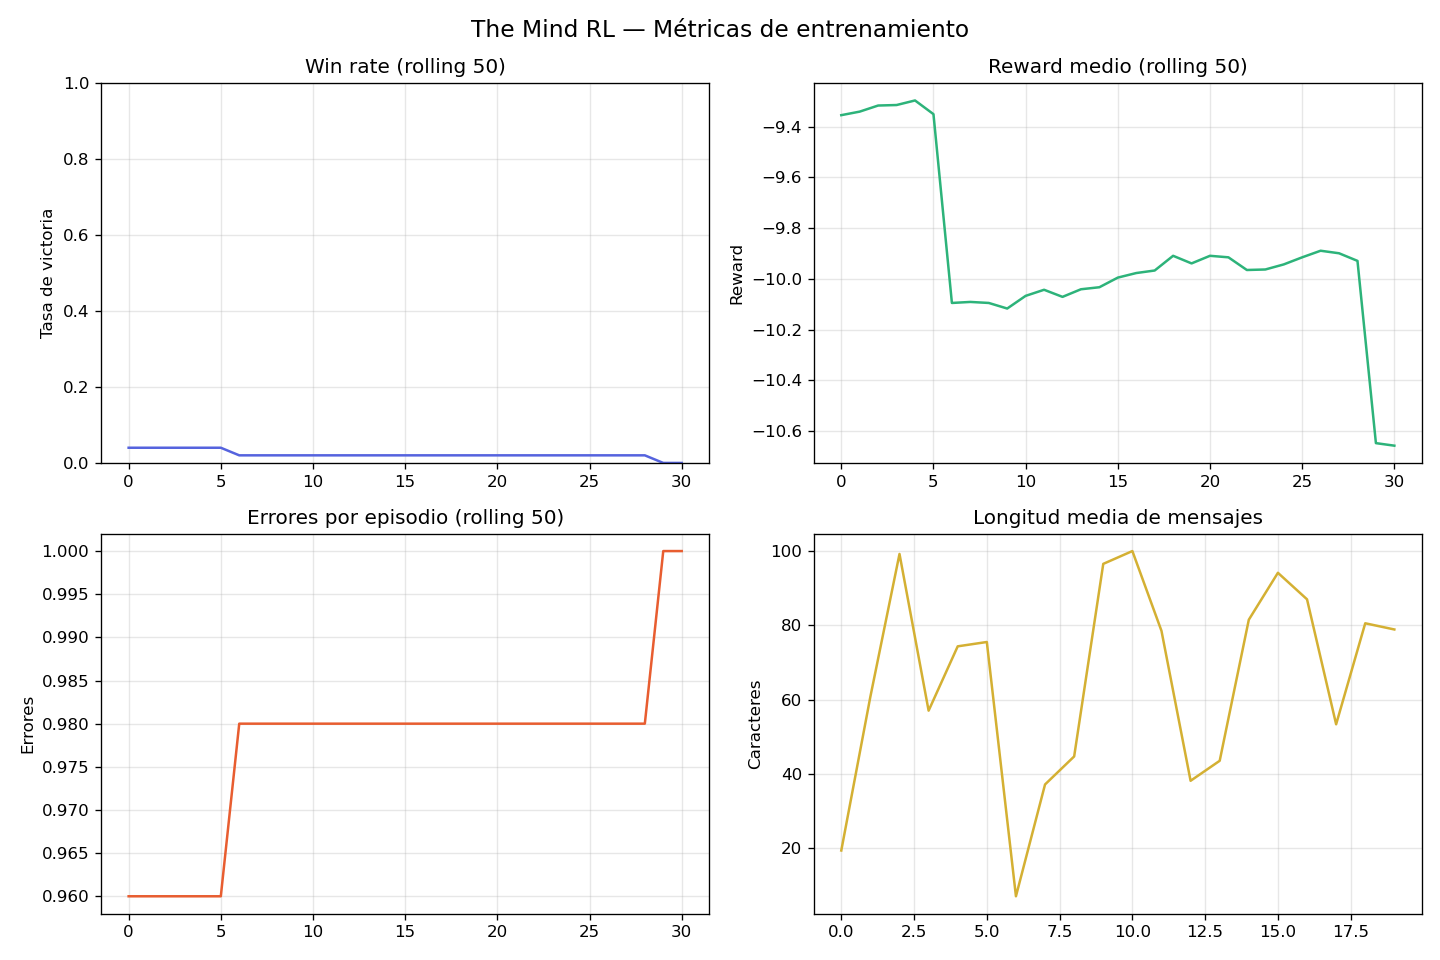
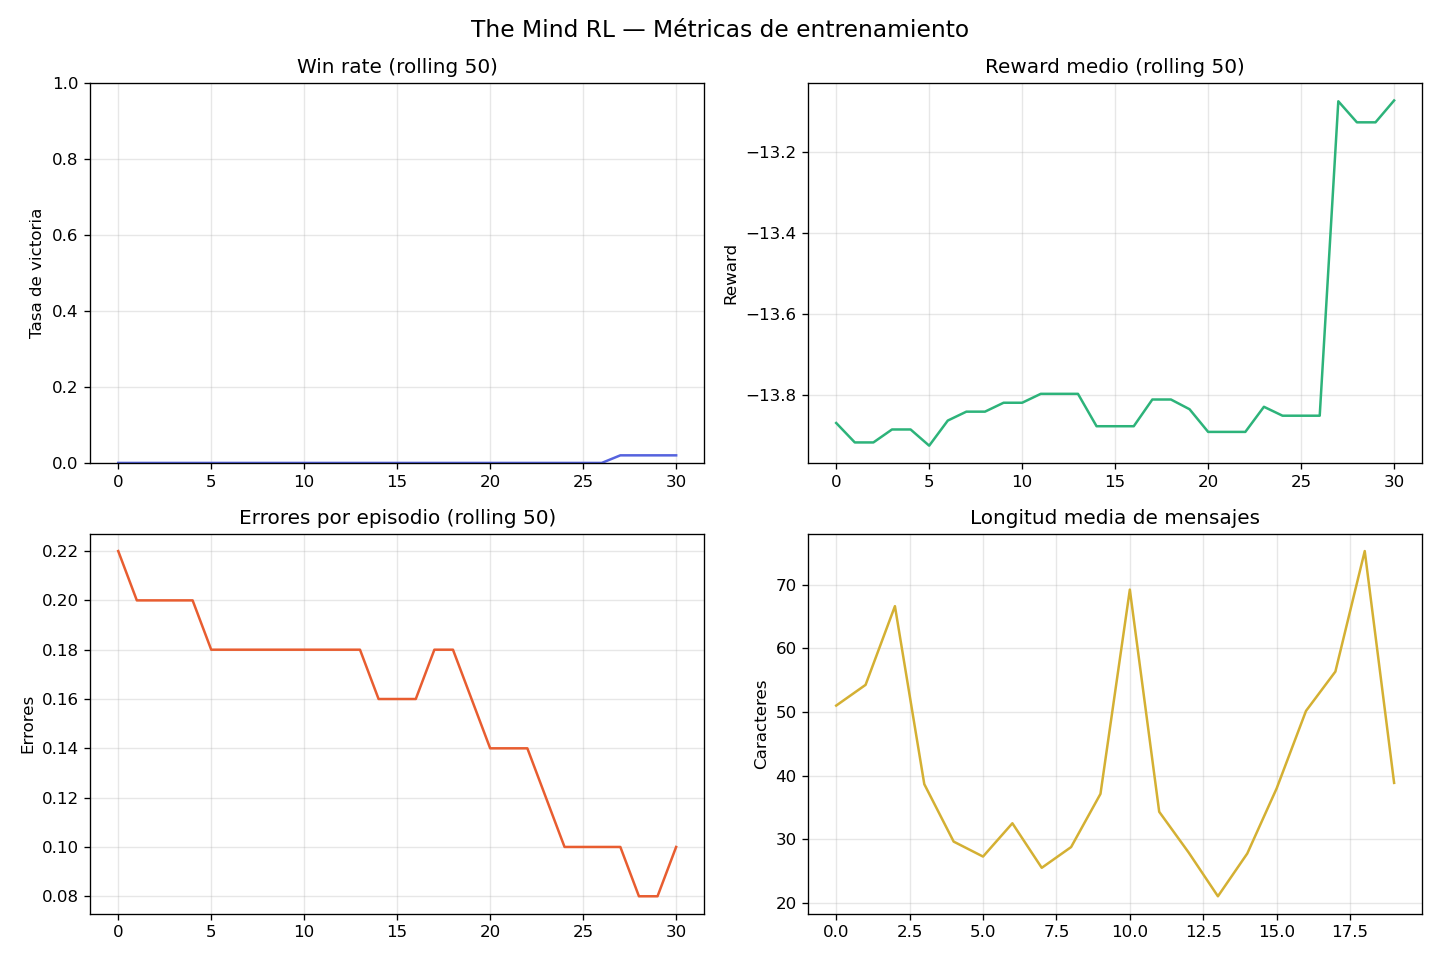
Few errors that happend during training fixed.

diff --git a/trainer.py b/trainer.py
@@ -12,7 +12,6 @@ GRPO es preferible aquí porque:
 import torch
 import torch.nn.functional as F
 import logging
-import warnings
 from typing import Optional
 from dataclasses import dataclass
 
@@ -25,24 +24,14 @@ from rewards import (
 logger = logging.getLogger(__name__)
 
 
-def _configure_training_warnings() -> None:
-    """Oculta warnings conocidos y ruidosos de dependencias externas durante training."""
-    warnings.filterwarnings(
-        "ignore",
-        message=r".*AttentionMaskConverter.*deprecated.*",
-        category=FutureWarning,
-        module=r"transformers\.modeling_attn_mask_utils",
-    )
-
-
 @dataclass
 class TrainerConfig:
     """Hiperparámetros del entrenamiento RL."""
     # General
     num_episodes: int = 500
-    num_levels: int = 8              # niveles del juego a entrenar
+    num_levels: int = 3              # niveles del juego a entrenar
     group_size: int = 4              # tamaño del grupo para GRPO
-    checkpoint_every: int = 25
+    checkpoint_every: int = 50
 
     # Optimización
     lr: float = 1e-5
@@ -87,14 +76,17 @@ class GRPOTrainer:
 
         # Un optimizer por agente (o compartido si shared LoRA)
         if optimizers is None:
-            self.optimizers = [
-                torch.optim.AdamW(
-                    agent.model.parameters(),
-                    lr=config.lr,
-                    weight_decay=0.01,
-                )
-                for agent in agents
-            ]
+            optimizers_by_model = {}
+            self.optimizers = []
+            for agent in agents:
+                model_id = id(agent.model)
+                if model_id not in optimizers_by_model:
+                    optimizers_by_model[model_id] = torch.optim.AdamW(
+                        agent.model.parameters(),
+                        lr=config.lr,
+                        weight_decay=0.01,
+                    )
+                self.optimizers.append(optimizers_by_model[model_id])
         else:
             self.optimizers = optimizers
 
@@ -120,8 +112,7 @@ class GRPOTrainer:
                 for agent in self.agents:
                     if state.hands[agent.player_id]:  # si tiene cartas
                         obs = self.env.get_observation(agent.player_id)
-                        with torch.set_grad_enabled(training):
-                            decision = agent.generate_action(obs)
+                        decision = agent.generate_action(obs)  # always no_grad internally
 
                         if decision["message"]:
                             self.env.send_message(agent.player_id, decision["message"])
@@ -151,8 +142,7 @@ class GRPOTrainer:
                     continue
 
                 obs = self.env.get_observation(agent.player_id)
-                with torch.set_grad_enabled(training):
-                    decision = agent.generate_action(obs)
+                decision = agent.generate_action(obs)  # always no_grad internally
 
                 if decision["action"] == "play":
                     card = agent.get_card_to_play(obs)
@@ -229,61 +219,76 @@ class GRPOTrainer:
         advantage: float,
     ) -> Optional[torch.Tensor]:
         """
-        Calcula el policy gradient loss para una transición (GRPO/PPO simplificado).
+        Calcula el policy gradient loss para una transición (GRPO simplificado).
 
-        Loss = -advantage * log_prob(output | prompt)
-             + kl_coeff * KL(pi_theta || pi_ref)
-             - entropy_bonus * H(pi_theta)
+        Loss = -advantage * log_prob(output | prompt) - entropy_bonus * H(pi)
+
+        IMPORTANTE: No pasamos `labels` al modelo para evitar que HuggingFace
+        compute la cross-entropy internamente con operaciones in-place que
+        corrompen el grafo de autograd. Calculamos el loss manualmente.
         """
         tokenizer = agent.tokenizer
         model = agent.model
 
-        # Tokenizar prompt + output
-        full_text = prompt + output
-        tokens = tokenizer(
-            full_text,
-            return_tensors="pt",
-            truncation=True,
-            max_length=1024,
-        ).to(self.config.device)
-
-        prompt_tokens = tokenizer(
+        # Tokenizar prompt + output por separado para conocer el corte
+        prompt_ids = tokenizer(
             prompt,
             return_tensors="pt",
             truncation=True,
             max_length=768,
-        ).to(self.config.device)
-        prompt_len = prompt_tokens["input_ids"].shape[1]
+            add_special_tokens=False,
+        )["input_ids"]
+        output_ids = tokenizer(
+            output,
+            return_tensors="pt",
+            truncation=True,
+            max_length=200,
+            add_special_tokens=False,
+        )["input_ids"]
 
-        if tokens["input_ids"].shape[1] <= prompt_len:
+        if output_ids.shape[1] == 0:
             return None
 
-        # Forward pass
-        outputs = model(**tokens, labels=tokens["input_ids"])
+        prompt_len = prompt_ids.shape[1]
+        input_ids = torch.cat([prompt_ids, output_ids], dim=1).to(self.config.device)
+        attention_mask = torch.ones_like(input_ids)
 
-        # Log-probs solo sobre los tokens generados (no el prompt)
-        logits = outputs.logits[:, prompt_len-1:-1, :]  # [1, gen_len, vocab]
-        target_ids = tokens["input_ids"][:, prompt_len:]  # [1, gen_len]
+        # Forward pass limpio SIN labels — evita operaciones in-place internas
+        model.train()
+        out = model(
+            input_ids=input_ids,
+            attention_mask=attention_mask,
+            use_cache=False,
+            return_dict=True,
+        )
+        logits = out.logits.float().clone()  # [1, seq_len, vocab]
 
-        log_probs = F.log_softmax(logits, dim=-1)
+        # Solo los logits que predicen tokens del output (shifted by 1)
+        # logits[:, prompt_len-1:-1] predice los tokens output_ids[:, 0:]
+        gen_logits = logits[:, prompt_len - 1:-1, :].float()  # [1, gen_len, vocab]
+        target_ids = input_ids[:, prompt_len:].to(self.config.device)   # [1, gen_len]
+
+        if gen_logits.shape[1] == 0:
+            return None
+
+        # Log-probs manualmente (sin in-place)
+        log_probs = F.log_softmax(gen_logits, dim=-1)
         token_log_probs = log_probs.gather(
             2, target_ids.unsqueeze(-1)
         ).squeeze(-1)  # [1, gen_len]
 
-        # Log-prob media de la secuencia generada
         seq_log_prob = token_log_probs.mean()
 
         # Policy gradient loss
-        pg_loss = -advantage * seq_log_prob
+        adv_tensor = torch.tensor(advantage, dtype=torch.float32, device=self.config.device)
+        pg_loss = -adv_tensor * seq_log_prob
 
-        # Entropy bonus (aproximación: negativa de la entropía media)
-        probs = F.softmax(logits, dim=-1)
+        # Entropy bonus
+        probs = F.softmax(gen_logits, dim=-1)
         entropy = -(probs * log_probs).sum(dim=-1).mean()
         entropy_loss = -self.config.entropy_bonus * entropy
 
-        total_loss = pg_loss + entropy_loss
-
-        return total_loss
+        return pg_loss + entropy_loss
 
     # ─── Actualización de pesos ───────────────────────────────────────────────
 
@@ -325,9 +330,13 @@ class GRPOTrainer:
                         num_updates[pid] += 1
 
         # Aplicar gradientes
+        stepped_optimizers = set()
         for agent in self.agents:
             pid = agent.player_id
             opt = self.optimizers[pid]
+
+            if id(opt) in stepped_optimizers:
+                continue
 
             torch.nn.utils.clip_grad_norm_(
                 agent.model.parameters(),
@@ -335,6 +344,7 @@ class GRPOTrainer:
             )
             opt.step()
             opt.zero_grad()
+            stepped_optimizers.add(id(opt))
 
             avg_loss = (
                 total_loss_per_agent[pid] / num_updates[pid]
@@ -359,8 +369,6 @@ class GRPOTrainer:
             verbose: imprimir progreso
         """
         from utils import save_checkpoint
-
-        _configure_training_warnings()
 
         config = self.config
         level_schedule = self._build_level_schedule()

diff --git a/agents.py b/agents.py
@@ -288,6 +288,9 @@ def load_base_model(
         load_kwargs["attn_implementation"] = "flash_attention_2"
 
     model = AutoModelForCausalLM.from_pretrained(model_name, **load_kwargs)
+    model.config.use_cache = False
+    if hasattr(model, "generation_config"):
+        model.generation_config.use_cache = False
     model.eval()
 
     logger.info(f"Modelo cargado. Parámetros: {model.num_parameters():,}")
@@ -338,6 +341,9 @@ def create_agents(
 
     if shared_lora:
         peft_model = get_peft_model(model, lora_config)
+        peft_model.config.use_cache = False
+        if hasattr(peft_model, "generation_config"):
+            peft_model.generation_config.use_cache = False
         peft_model.print_trainable_parameters()
         agents = [
             TheMindAgent(i, model=peft_model, tokenizer=tokenizer, device=device)
@@ -348,6 +354,9 @@ def create_agents(
         agents = []
         for i in range(num_players):
             peft_model = get_peft_model(model, lora_config)
+            peft_model.config.use_cache = False
+            if hasattr(peft_model, "generation_config"):
+                peft_model.generation_config.use_cache = False
             agents.append(
                 TheMindAgent(i, model=peft_model, tokenizer=tokenizer, device=device)
             )
